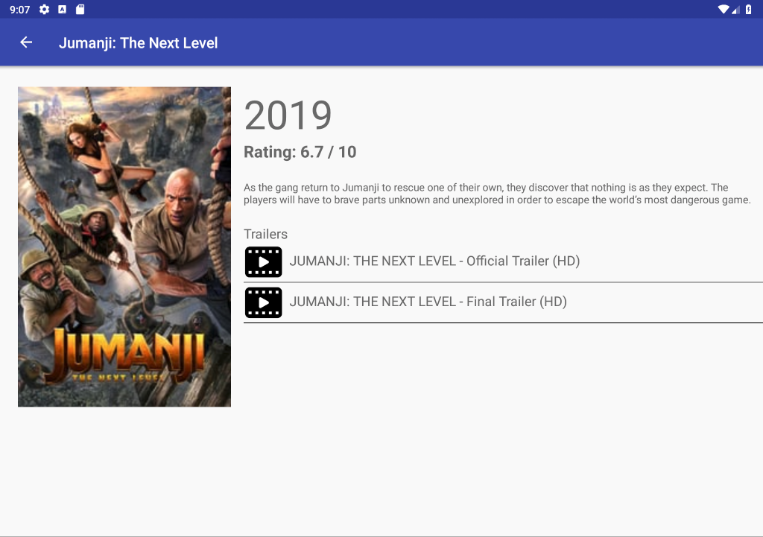
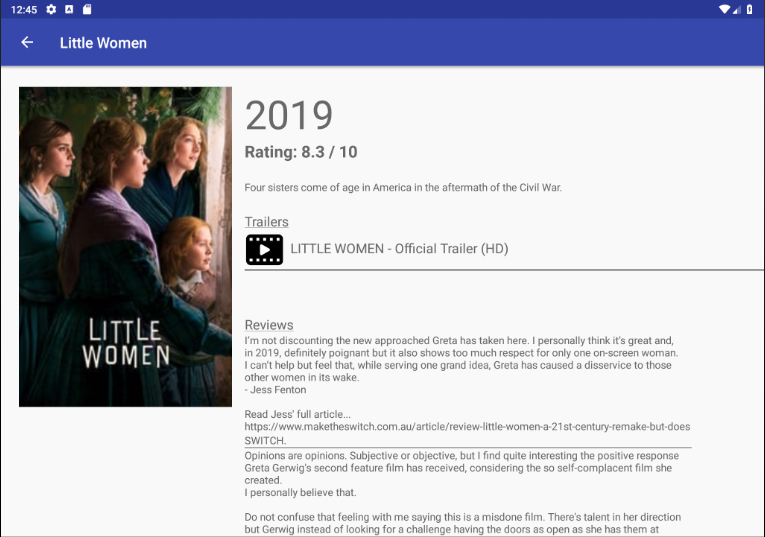
ReviewFragment

diff --git a/app/src/main/java/com/coreen/popularmovies/fragment/ReviewFragment.kt b/app/src/main/java/com/coreen/popularmovies/fragment/ReviewFragment.kt
@@ -1,0 +1,91 @@
+package com.coreen.popularmovies.fragment
+
+import android.os.Bundle
+import android.support.v4.app.Fragment
+import android.support.v7.widget.LinearLayoutManager
+import android.view.LayoutInflater
+import android.view.View
+import android.view.ViewGroup
+import com.coreen.popularmovies.R
+import com.coreen.popularmovies.adapter.ReviewAdapter
+import com.coreen.popularmovies.service.MovieDbApiService
+import com.coreen.popularmovies.service.ReviewResponse
+import com.coreen.popularmovies.service.ReviewResult
+import com.coreen.popularmovies.utility.Constants
+import com.coreen.popularmovies.utility.ResponseUtil
+import retrofit2.Call
+import retrofit2.Callback
+import retrofit2.Response
+import timber.log.Timber
+
+import kotlinx.android.synthetic.main.fragment_review.*
+
+class ReviewFragment : Fragment() {
+    private var mReviewAdapter: ReviewAdapter? = null
+
+    override fun onCreateView(inflater: LayoutInflater, container: ViewGroup?, savedInstanceState: Bundle?): View? {
+        return inflater.inflate(R.layout.fragment_review, container, false)
+    }
+
+    override fun onActivityCreated(savedInstanceState: Bundle?) {
+        super.onActivityCreated(savedInstanceState)
+
+        recyclerview_reviews.layoutManager = LinearLayoutManager(activity)
+        mReviewAdapter = ReviewAdapter()
+        recyclerview_reviews.adapter = mReviewAdapter
+
+        if (arguments != null) {
+            val movieId = arguments?.getInt(Constants.EXTRA_MOVIE_ID.value)
+            loadReviewData(movieId!!)
+        }
+    }
+
+    fun loadReviewData(movieId: Int) {
+        showLoadingView()
+
+        val movieDbApiServe = MovieDbApiService.create()
+        val call : Call<ReviewResponse> = movieDbApiServe.getReviews(movieId)
+        call.enqueue(object : Callback<ReviewResponse> {
+            override fun onResponse(call: Call<ReviewResponse>, response: Response<ReviewResponse>) {
+                Timber.d("!!!!!!! fragment call url: " + call.request().url())
+                if (response.isSuccessful) {
+                    val reviewResponse : ReviewResponse? = response.body()
+                    Timber.d("reviews for movieId " + movieId + " received successfully")
+
+                    Timber.d("review count: " + reviewResponse!!.results.size)
+                    val reviews : List<ReviewResult> = ResponseUtil.parseReviews(reviewResponse)
+
+                    mReviewAdapter!!.setReviewData(reviews)
+                    if (mReviewAdapter!!.itemCount == 0) {
+                        showErrorMessage()
+                    } else {
+                        showListView()
+                    }
+                }
+            }
+
+            override fun onFailure(call: Call<ReviewResponse>?, t: Throwable?) {
+                Timber.e(t, "Error occurred during network call to MovieDb")
+                showErrorMessage()
+            }
+        })
+    }
+
+    private fun showErrorMessage() {
+        pb_review_loading_indicator.visibility = View.INVISIBLE
+        recyclerview_reviews.visibility = View.INVISIBLE
+        tv_no_reviews.visibility = View.VISIBLE
+    }
+
+    private fun showLoadingView() {
+        recyclerview_reviews.visibility = View.INVISIBLE
+        tv_no_reviews.visibility = View.INVISIBLE
+        pb_review_loading_indicator.visibility = View.VISIBLE
+    }
+
+    private fun showListView() {
+        pb_review_loading_indicator.visibility = View.INVISIBLE
+        tv_no_reviews.visibility = View.INVISIBLE
+        recyclerview_reviews.visibility = View.VISIBLE
+    }
+}

diff --git a/app/src/main/java/com/coreen/popularmovies/service/ReviewResponse.kt b/app/src/main/java/com/coreen/popularmovies/service/ReviewResponse.kt
@@ -1,0 +1,51 @@
+package com.coreen.popularmovies.service
+
+import com.google.gson.annotations.SerializedName
+
+/**
+ * Sample data
+ *
+ * {
+ *      "id":297761,
+ *      "page":1,
+ *      "results":[
+ *          {
+ *              "author":"Gimly",
+ *              "content":"Some semi-interesting visuals and a few characters I'd like to get to
+ *                  know, but an absolute mess of a movie. The thing feels like a trailer, or a
+ *                  clipshow, or a music video or some other sort of two-hour long promotional
+ *                  material for the actual _Suicide Squad_ that comes out
+ *                  later.\r\n\r\n_Final rating:★★ - Had some things that appeal to me, but a poor
+ *                  finished product._",
+ *              "id":"5831921492514162c0023889",
+ *              "url":"https://www.themoviedb.org/review/5831921492514162c0023889"
+ *          },
+ *          {
+ *              "author":"ColinJ",
+ *              "content":"Aka NEEDLE DROP: THE MOVIE\r\n\r\nSUICIDE SQUAD is a mess. But an
+ *                  entertaining, well-cast mess.",
+ *              "id":"58a51120925141655f001c46",
+ *              "url":"https://www.themoviedb.org/review/58a51120925141655f001c46"
+ *          }
+ *      ]
+ * }
+ */
+class ReviewResponse {
+    @SerializedName("id")
+    var id: String? = null
+    @SerializedName("page")
+    var page: Int = 0
+    @SerializedName("results")
+    var results: List<ReviewResult> = emptyList()
+}
+
+class ReviewResult {
+    @SerializedName("author")
+    var author: String? = null
+    @SerializedName("content")
+    var content: String? = null
+    @SerializedName("id")
+    var id: String? = null
+    @SerializedName("url")
+    var url: String? = null
+}

diff --git a/app/src/main/java/com/coreen/popularmovies/adapter/ReviewAdapter.kt b/app/src/main/java/com/coreen/popularmovies/adapter/ReviewAdapter.kt
@@ -1,0 +1,52 @@
+package com.coreen.popularmovies.adapter
+
+import android.support.v7.widget.RecyclerView
+import android.view.LayoutInflater
+import android.view.View
+import android.view.ViewGroup
+import android.widget.TextView
+import com.coreen.popularmovies.R
+import com.coreen.popularmovies.service.ReviewResult
+
+class ReviewAdapter : RecyclerView.Adapter<ReviewAdapter.ReviewAdapterViewHolder>() {
+    private var reviews: List<ReviewResult>? = null
+    private var count: Int = 0
+
+    inner class ReviewAdapterViewHolder(view: View) : RecyclerView.ViewHolder(view) {
+        private val mContent: TextView
+        private val mAuthor: TextView
+
+        init {
+            mContent = view.findViewById(R.id.tv_review_content)
+            mAuthor = view.findViewById(R.id.tv_review_author)
+        }
+
+        fun bind(position: Int) {
+            mContent.text = reviews!![position].content
+            mAuthor.text = reviews!![position].author
+        }
+    }
+
+    override fun onBindViewHolder(holder: ReviewAdapterViewHolder, position: Int) {
+        holder.bind(holder.adapterPosition)
+    }
+
+    override fun onCreateViewHolder(parent: ViewGroup, viewType: Int): ReviewAdapterViewHolder {
+        val layoutInflater : LayoutInflater = LayoutInflater.from(parent.context)
+        return ReviewAdapterViewHolder(
+                layoutInflater.inflate(R.layout.review_list_item, parent, false))
+    }
+
+    override fun getItemCount(): Int {
+        if (reviews == null) {
+            return 0
+        }
+        return count
+    }
+
+    fun setReviewData(data: List<ReviewResult>) {
+        reviews = data
+        count = data.size
+        notifyDataSetChanged()
+    }
+}

diff --git a/app/src/main/java/com/coreen/popularmovies/fragment/TrailerFragment.kt b/app/src/main/java/com/coreen/popularmovies/fragment/TrailerFragment.kt
@@ -64,7 +64,7 @@ class TrailerFragment : Fragment(), TrailerAdapter.TrailerAdapterOnClickHandler 
         super.onActivityCreated(savedInstanceState)
         Timber.d("TrailerFragment onActivityCreated")
 
-        mTrailerAdapter = TrailerAdapter(context!!, this@TrailerFragment)
+        mTrailerAdapter = TrailerAdapter(this@TrailerFragment)
         recyclerview_trailer.layoutManager = LinearLayoutManager(context,
                 LinearLayoutManager.VERTICAL, false)
         recyclerview_trailer.setHasFixedSize(true)
@@ -99,7 +99,11 @@ class TrailerFragment : Fragment(), TrailerAdapter.TrailerAdapterOnClickHandler 
                     val trailers : List<TrailerResult> = ResponseUtil.parseTrailers(trailerResponse)
 
                     mTrailerAdapter!!.setTrailerData(trailers)
-                    showListView()
+                    if (mTrailerAdapter!!.itemCount == 0) {
+                        showErrorMessage()
+                    } else {
+                        showListView()
+                    }
                 }
             }
 

diff --git a/app/src/main/java/com/coreen/popularmovies/activity/DetailActivity.kt b/app/src/main/java/com/coreen/popularmovies/activity/DetailActivity.kt
@@ -4,6 +4,7 @@ import android.os.Bundle
 import android.support.v4.app.Fragment
 import android.support.v7.app.AppCompatActivity
 import com.coreen.popularmovies.R
+import com.coreen.popularmovies.fragment.ReviewFragment
 import com.coreen.popularmovies.fragment.TrailerFragment
 import com.coreen.popularmovies.model.Movie
 import com.coreen.popularmovies.utility.Constants.EXTRA_MOVIE
@@ -38,9 +39,13 @@ class DetailActivity : AppCompatActivity() {
 
             var trailerFragment: Fragment = TrailerFragment()
             trailerFragment.arguments = bundle
+            var reviewFragment: Fragment = ReviewFragment()
+            reviewFragment.arguments = bundle
+
             supportFragmentManager
                     .beginTransaction()
                     .add(R.id.trailer_fragment_placeholder, trailerFragment, "trailers")
+                    .add(R.id.review_fragment_placeholder, reviewFragment, "reviews")
                     .commit()
         }
     }

diff --git a/app/src/main/java/com/coreen/popularmovies/utility/ResponseUtil.kt b/app/src/main/java/com/coreen/popularmovies/utility/ResponseUtil.kt
@@ -1,10 +1,7 @@
 package com.coreen.popularmovies.utility
 
 import com.coreen.popularmovies.model.Movie
-import com.coreen.popularmovies.service.MovieResponse
-import com.coreen.popularmovies.service.MovieResult
-import com.coreen.popularmovies.service.TrailerResponse
-import com.coreen.popularmovies.service.TrailerResult
+import com.coreen.popularmovies.service.*
 
 object ResponseUtil {
     fun parseMovies(movieResponse: MovieResponse) : List<Movie> {
@@ -17,5 +14,9 @@ object ResponseUtil {
 
     fun parseTrailers(trailerResponse: TrailerResponse) : List<TrailerResult> {
         return trailerResponse.results
+    }
+
+    fun parseReviews(reviewResponse: ReviewResponse): List<ReviewResult> {
+        return reviewResponse.results
     }
 }

diff --git a/app/src/main/java/com/coreen/popularmovies/adapter/TrailerAdapter.kt b/app/src/main/java/com/coreen/popularmovies/adapter/TrailerAdapter.kt
@@ -1,6 +1,5 @@
 package com.coreen.popularmovies.adapter
 
-import android.content.Context
 import android.support.v7.widget.RecyclerView
 import android.view.LayoutInflater
 import android.view.View
@@ -10,8 +9,7 @@ import com.coreen.popularmovies.R
 import com.coreen.popularmovies.service.TrailerResult
 import timber.log.Timber
 
-internal class TrailerAdapter constructor(private val context: Context,
-                                          private val clickHandler: TrailerAdapterOnClickHandler)
+internal class TrailerAdapter constructor(private val clickHandler: TrailerAdapterOnClickHandler)
     : RecyclerView.Adapter<TrailerAdapter.TrailerAdapterViewHolder>() {
 
     private var trailers: List<TrailerResult>? = null

diff --git a/app/src/main/java/com/coreen/popularmovies/service/MovieDbApiService.kt b/app/src/main/java/com/coreen/popularmovies/service/MovieDbApiService.kt
@@ -19,6 +19,9 @@ interface MovieDbApiService {
     @GET("/3/movie/{id}/videos")
     fun getTrailers(@Path("id") id: Int?): Call<TrailerResponse>
 
+    @GET("/3/movie/{id}/reviews")
+    fun getReviews(@Path("id") id: Int?): Call<ReviewResponse>
+
     companion object {
         fun create(): MovieDbApiService {
             /**
